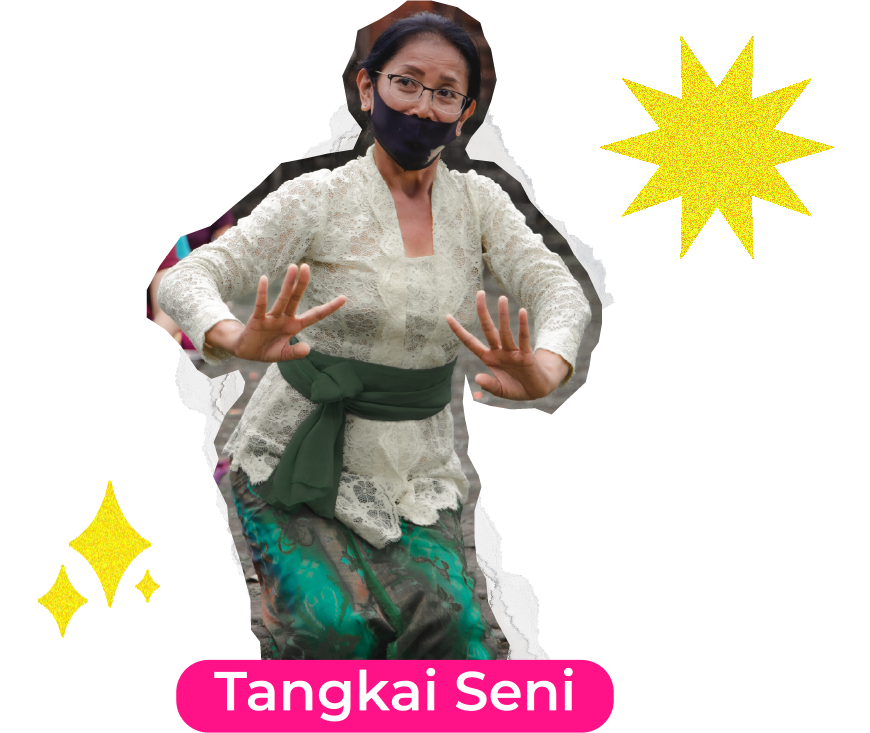
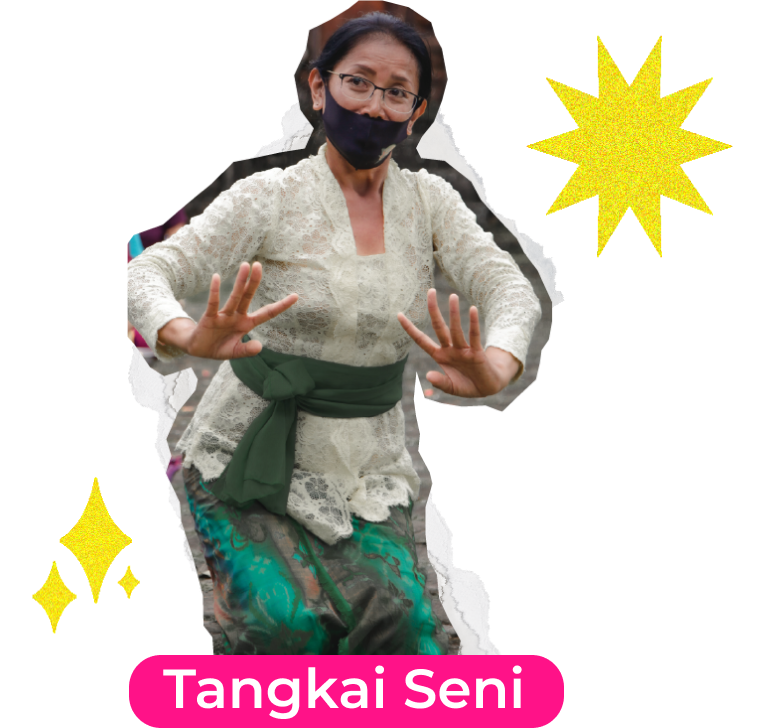
fix(homepage): section lomba components

diff --git a/src/Components/Homepage/Lomba.jsx b/src/Components/Homepage/Lomba.jsx
@@ -8,8 +8,8 @@ import TigaBintangLomba from "../../assets/images/homepage/3-bintang-lomba.png";
 import ExplodeLombaKanan from "../../assets/images/homepage/explode-lomba-kanan.png";
 import ExplodeLombaKiri from "../../assets/images/homepage/explode-lomba-kiri.png";
 import ExplodeLombaKecil from "../../assets/images/homepage/explode-kecil-lomba.png";
-import CabangSeni from "../../assets/images/homepage/seni-lomba.png"
-import CabangOlahraga from "../../assets/images/homepage/olahraga-lomba.png"
+import CabangSeni from "../../assets/images/homepage/seni-lomba.png";
+import CabangOlahraga from "../../assets/images/homepage/olahraga-lomba.png";
 
 const Lomba = () => {
   var settings = {
@@ -26,7 +26,7 @@ const Lomba = () => {
         <img src={BorderLomba} className="mx-auto hidden md:block" alt="" />
         <img src={BorderLombaMobile} className="mx-auto md:hidden" alt="" />
         <p
-          className="font-universalserif text-2xl md:text-2xl xl:text-4xl text-yellow absolute text-center"
+          className="font-universalserif text-2xl md:text-2xl xl:text-4xl text-yellow absolute text-center md:hidden"
           style={{
             left: "49.5%",
             transform: "translate(-50%, -170%)",
@@ -34,40 +34,66 @@ const Lomba = () => {
         >
           LOMBA
         </p>
-        <div className="pt-10 rounded-3rem w-3/4 xl:w-1/2 gap-8 lg mx-auto z-10 hidden md:flex md:flex-row">
+        <p
+          className="font-universalserif text-2xl md:text-2xl xl:text-4xl text-yellow absolute text-center hidden md:block"
+          style={{
+            left: "49.5%",
+            transform: "translate(-50%, -200%)",
+          }}
+        >
+          LOMBA
+        </p>
+        <div className="pt-10 rounded-3rem w-3/4 xl:w-1/2 gap-24 lg mx-auto z-10 hidden md:flex md:flex-row">
           <div className="h-full w-full pb-36 z-10">
-            <img src={CabangSeni} className="mx-auto z-10" alt="" />
+            <img src={CabangSeni} className="mx-auto z-10 cursor-pointer" alt="" />
             {/* <p className="text-center">SENI</p> */}
           </div>
           <div className="h-full w-full pb-36 z-10">
-          <img src={CabangOlahraga} className="mx-auto z-10" alt="" />
+            <img src={CabangOlahraga} className="mx-auto z-10 cursor-pointer" alt="" />
             {/* <p>OLAHRAGA</p> */}
           </div>
         </div>
         <div className="mx-auto items-center justify-center md:hidden">
           <Slider {...settings}>
-            <div className="xl:px-20 xl:py-5 px-7 py-3">
-              {/* <img src={PatternLombaMobile} className="mx-auto" alt="" /> */}
-              <img src={CabangSeni} className="mx-auto cursor-pointer" alt="" />
+            <div className="xl:px-20 xl:py-5 px-7 py-10">
+              {/* <img
+                src={PatternLombaMobile}
+                className="absolute mx-auto"
+                alt=""
+              /> */}
+              <img
+                src={CabangSeni}
+                className="mx-auto cursor-pointer"
+                alt=""
+              />
             </div>
-            <div className="xl:px-20 xl:py-5 px-7 py-3">
-              <img src={CabangOlahraga} className="mx-auto cursor-pointer" alt="" />
+            <div className="xl:px-20 xl:py-5 px-7 py-10">
+              {/* <img
+                src={PatternLombaMobile}
+                className="absolute mx-auto"
+                alt=""
+              /> */}
+              <img
+                src={CabangOlahraga}
+                className="mx-auto cursor-pointer"
+                alt=""
+              />
             </div>
           </Slider>
         </div>
         <img
           src={TigaBintangLomba}
-          className="absolute top-24 left-24 hidden md:block"
+          className="absolute top-24 left-24 hidden xl:block"
           alt=""
         />
         <img
           src={ExplodeLombaKanan}
-          className="absolute right-24 top-12 hidden md:block"
+          className="absolute right-24 top-12 hidden xl:block"
           alt=""
         />
         <img
           src={ExplodeLombaKiri}
-          className="absolute top-96 left-24 z-0 hidden md:block"
+          className="absolute top-96 left-24 z-0 hidden xl:block"
           alt=""
         />
         {/* <img
